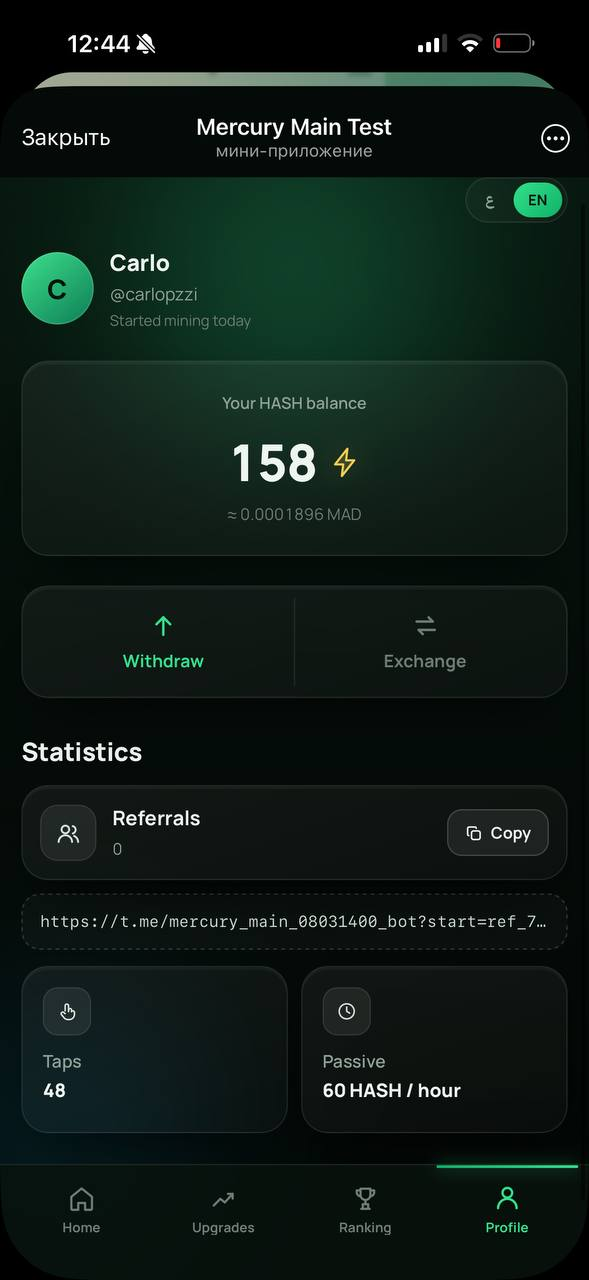
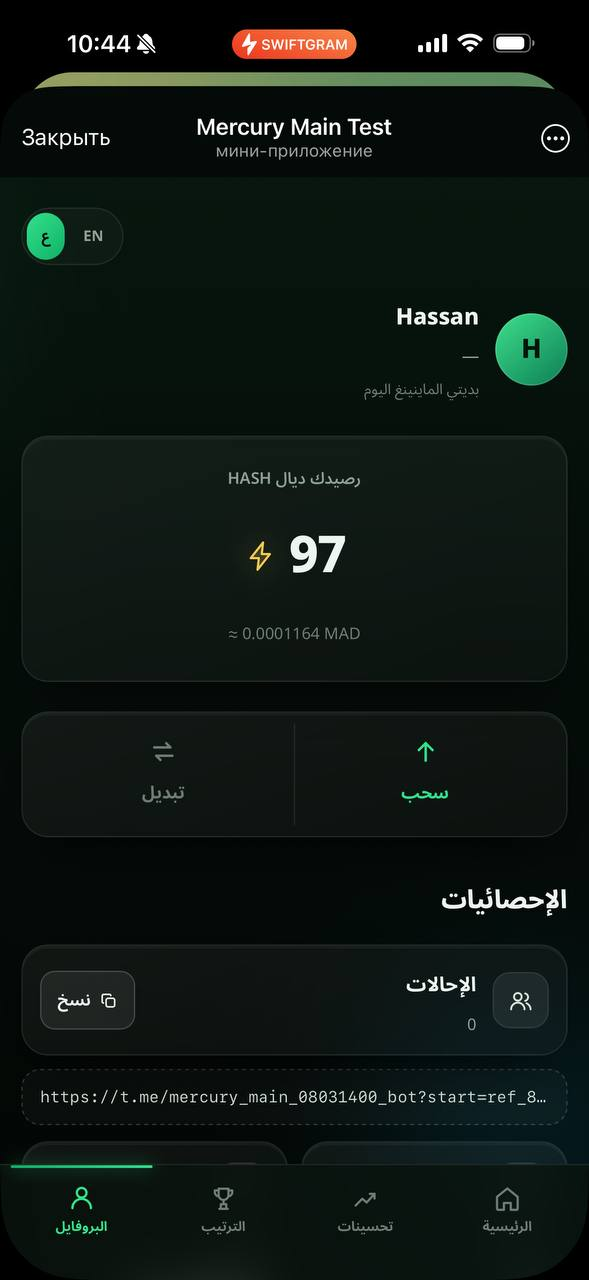
Update landing screenshots

diff --git a/index.html b/index.html
@@ -58,7 +58,7 @@
 
   <section class="section" id="how"><div class="wrap"><div class="section-head reveal"><div><div class="section-kicker">HOW IT WORKS</div><h2>ثلاث خطوات،<br>والبوت كيدير الباقي</h2></div><p>ما محتاج لا تطبيق جديد لا شرح طويل. دخل من Telegram، بدا بالكليك وطوّر الحساب ديالك بشوية بشوية.</p></div><div class="steps"><article class="step reveal"><span class="step-no">01</span><div class="step-icon">✈</div><h3>دخل للبوت</h3><p>كليكي على الزر وفتح Atlas Click مباشرة فـ Telegram.</p><span class="step-arrow">←</span></article><article class="step reveal"><span class="step-no">02</span><div class="step-icon">🪙</div><h3>جمع وطوّر</h3><p>كل كليكة كتزيدك نقط. استعمل Upgrades باش تزيد القوة والسرعة.</p><span class="step-arrow">←</span></article><article class="step reveal"><span class="step-no">03</span><div class="step-icon">🎁</div><h3>كمّل وخذ</h3><p>دير المهام، تابع الترتيب وشوف المكافآت المتاحة فالحساب.</p><span class="step-arrow">←</span></article></div></div></section>
 
-  <section class="section inside" id="inside"><div class="wrap"><div class="section-head reveal"><div><div class="section-kicker">INSIDE THE BOT</div><h2>هادشي هو البوت<br>الحقيقي من الداخل</h2></div><p>واجهات واضحة، رصيدك قدامك وكل خاصية فبلاصتها. جرّ السلايدر وشوف الشاشات.</p></div><div class="screens"><article class="screen-card reveal"><img src="assets/bot-upgrades.jpg" alt="واجهة التطوير والمهام فـ Atlas Click" loading="lazy"><div class="screen-caption"><b>التطوير والمهام</b><span>UPGRADES</span></div></article><article class="screen-card reveal"><img src="assets/bot-profile.jpg" alt="واجهة الرصيد والإحصائيات فـ Atlas Click" loading="lazy"><div class="screen-caption"><b>الرصيد والإحصائيات</b><span>PROFILE</span></div></article><article class="screen-card reveal"><img src="assets/bot-ranking.jpg" alt="واجهة الترتيب فـ Atlas Click" loading="lazy"><div class="screen-caption"><b>الترتيب</b><span>RANKING</span></div></article></div></div></section>
+  <section class="section inside" id="inside"><div class="wrap"><div class="section-head reveal"><div><div class="section-kicker">INSIDE THE BOT</div><h2>هادشي هو البوت<br>الحقيقي من الداخل</h2></div><p>واجهات واضحة، رصيدك قدامك وكل خاصية فبلاصتها. جرّ السلايدر وشوف الشاشات.</p></div><div class="screens"><article class="screen-card reveal"><img src="assets/bot-home.jpg" alt="الواجهة الرئيسية ديال Atlas Click" loading="lazy"><div class="screen-caption"><b>الكليك والطاقة</b><span>HOME</span></div></article><article class="screen-card reveal"><img src="assets/bot-upgrades.jpg" alt="واجهة التطوير والمهام فـ Atlas Click" loading="lazy"><div class="screen-caption"><b>التطوير والمهام</b><span>UPGRADES</span></div></article><article class="screen-card reveal"><img src="assets/bot-profile.jpg" alt="واجهة الرصيد والإحصائيات فـ Atlas Click" loading="lazy"><div class="screen-caption"><b>الرصيد والإحصائيات</b><span>PROFILE</span></div></article></div></div></section>
 
   <section class="section" id="features"><div class="wrap features"><div class="feature-poster reveal"><span class="mini">AUTO CLICK / ON</span><h2>حتى ملي كتخرج،<br>الخدمة مكملة.</h2><p>فعّل Auto Click وخلي البوت يجمع ليك النقط حسب القوة اللي وصلتي ليها.</p><div class="auto-pill"><span>الحالة دابا</span><b>● ACTIVE</b></div></div><div><div class="section-kicker">MADE TO BE SIMPLE</div><div class="feature-list"><article class="feature-row reveal"><div class="ico">⚡</div><div><h3>Auto Click</h3><p>فعّلو وخلي الجمع يكمل بطريقة أوتوماتيكية.</p></div></article><article class="feature-row reveal"><div class="ico">🚀</div><div><h3>Upgrades</h3><p>طوّر القوة والسرعة باش كل كليكة تعطيك أكثر.</p></div></article><article class="feature-row reveal"><div class="ico">✅</div><div><h3>Tasks</h3><p>مهام واضحة كتكمّلها وكتزيد بها الرصيد ديالك.</p></div></article><article class="feature-row reveal"><div class="ico">🏆</div><div><h3>Ranking</h3><p>شوف المركز ديالك وقارن التقدم مع اللاعبين الآخرين.</p></div></article></div></div></div></section>
 
